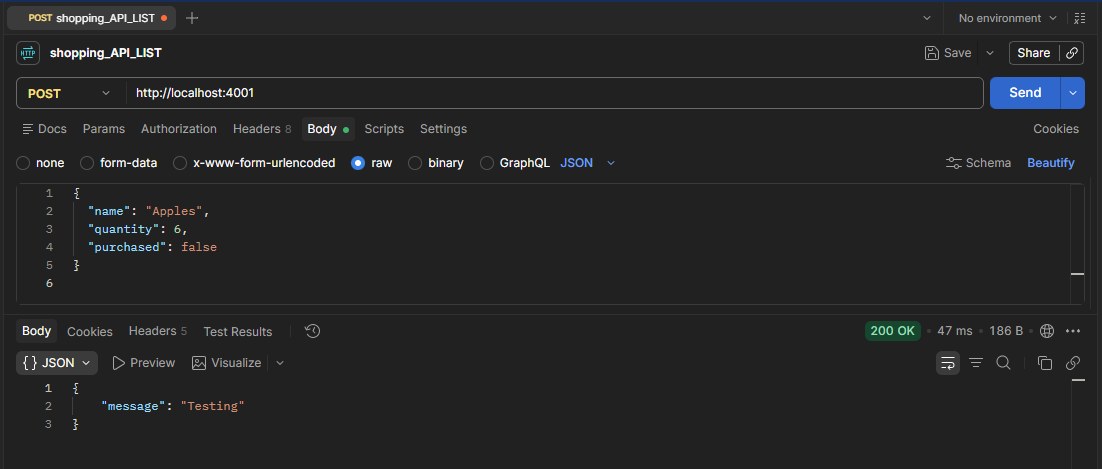
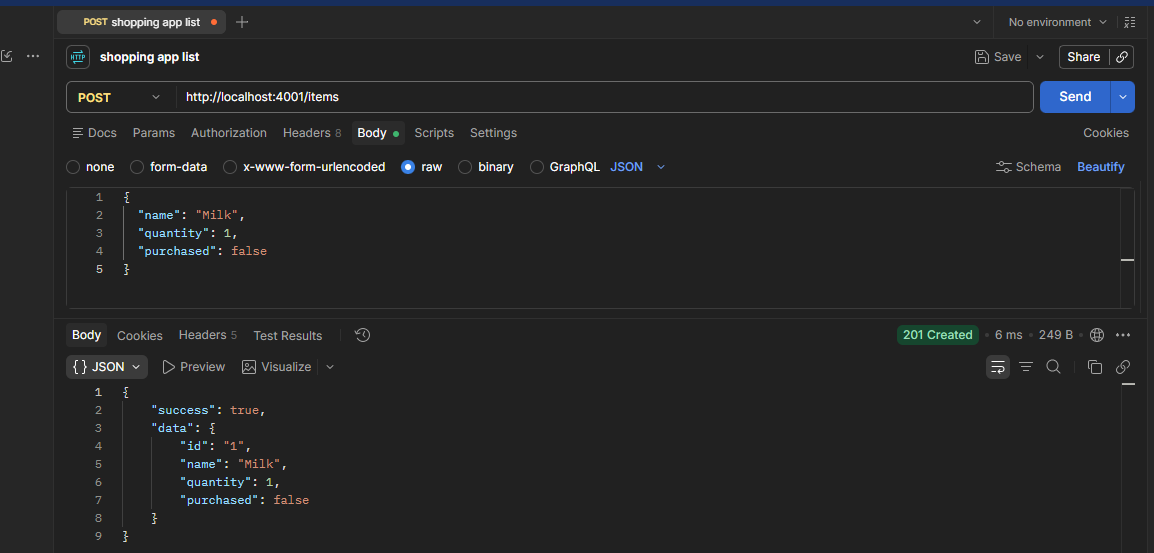
Update: screenshot change, and server.ts syntax removed the testing comment

diff --git a/src/server.ts b/src/server.ts
@@ -1,20 +1,10 @@
 // Server entry point & routing
 import http from 'http';
-import type { IncomingMessage, ServerResponse } from 'http';
 import { requestHandler } from './Routes/response';
 
 const port = 4001;
 
-const requestListener = (req: IncomingMessage, res: ServerResponse) => {
-  if(req.url?.startsWith('/items')) { 
-    requestHandler(req, res);
-  } else { 
-  res.writeHead(200, {"content-type": "application/json"});
-  res.end(JSON.stringify({ message: "Testing"}));
-  }
-};
-
-const server = http.createServer(requestListener);
+const server = http.createServer(requestHandler);
 
 server.listen(port, () => {
   console.log(`Server is running natively on http://localhost:${port}`);

diff --git a/README.md b/README.md
@@ -14,6 +14,27 @@
 
 ## Screenshot 
 
+<h4> POST/item </h4>
+<p align="center">
+  <img src="./src/Assets/POST-Items.png" width="700">
+</p>
+
+<h4> GET/items </h4>
+<p align="center">
+  <img src="src/assets/post-items.png" width="700">
+</p>
+
+<h4> GET/items/:id </h4>
+<p align="center">
+  <img src="src/assets/post-items.png" width="700">
+</p>
+
+<h4> PUT/items/:id </h4>
+<p align="center">
+  <img src="src/assets/post-items.png" width="700">
+</p>
+
+<h4> DELETE/items/:id </h4>
 <p align="center">
   <img src="src/assets/post-items.png" width="700">
 </p>
